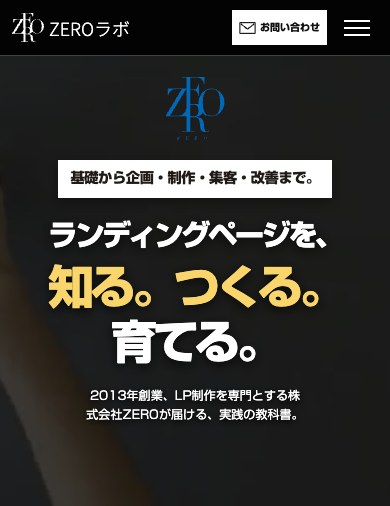
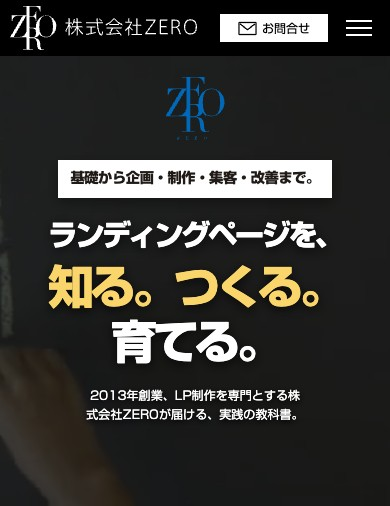
Refresh selected A preview thumbnails

diff --git a/zero-labo-production-proposals-v3/index.html b/zero-labo-production-proposals-v3/index.html
@@ -24,7 +24,7 @@
     <div class="proposals" aria-label="3つのデザイン案">
       <article class="proposal">
         <a class="preview" href="a/" aria-label="修正版A案を開く"><picture><source media="(max-width: 640px)" srcset="a/preview-sp.jpg"><img src="a/preview-pc.jpg" alt="修正版A案のメインビジュアル。中央ロゴ、白帯、大きなコピー" loading="lazy"></picture><span class="preview-cta">修正版を見る <span aria-hidden="true">↗</span></span></a>
-        <div class="details"><span class="letter" aria-hidden="true">A</span><div><h2>A案・修正版</h2><p>3つの枠を外して高さを短縮。中央のロゴはシンボルだけにし、左上のロゴ文字を細くしました。</p><a href="a/">修正版A案を見る <span aria-hidden="true">↗</span></a></div></div>
+        <div class="details"><span class="letter" aria-hidden="true">A</span><div><h2>A案・修正版</h2><p>ZEROのLPと同じ黒いヘッダーに変更。3つの枠を外して高さを短縮し、中央ロゴはシンボルだけにしました。</p><a href="a/">修正版A案を見る <span aria-hidden="true">↗</span></a></div></div>
       </article>
       <article class="proposal">
         <a class="preview" href="b/" aria-label="B案を開く"><picture><source media="(max-width: 640px)" srcset="b/preview-sp.jpg"><img src="b/preview-pc.jpg" alt="B案のメインビジュアル。中央ロゴ、白帯、コピー、3つの枠" loading="lazy"></picture><span class="preview-cta">動きのあるページを見る <span aria-hidden="true">↗</span></span></a>
